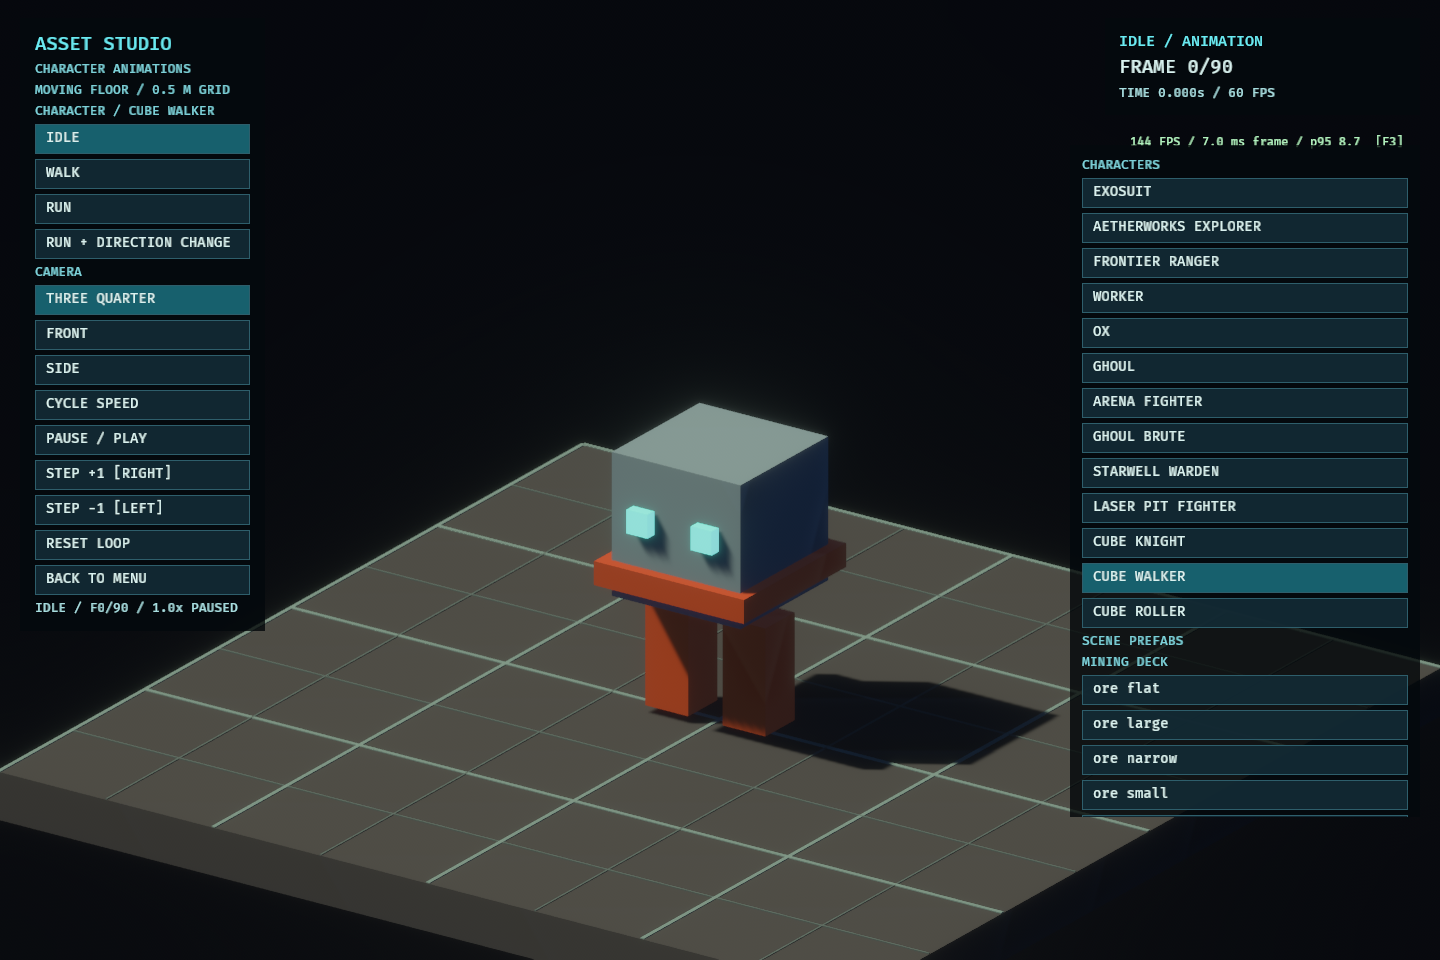
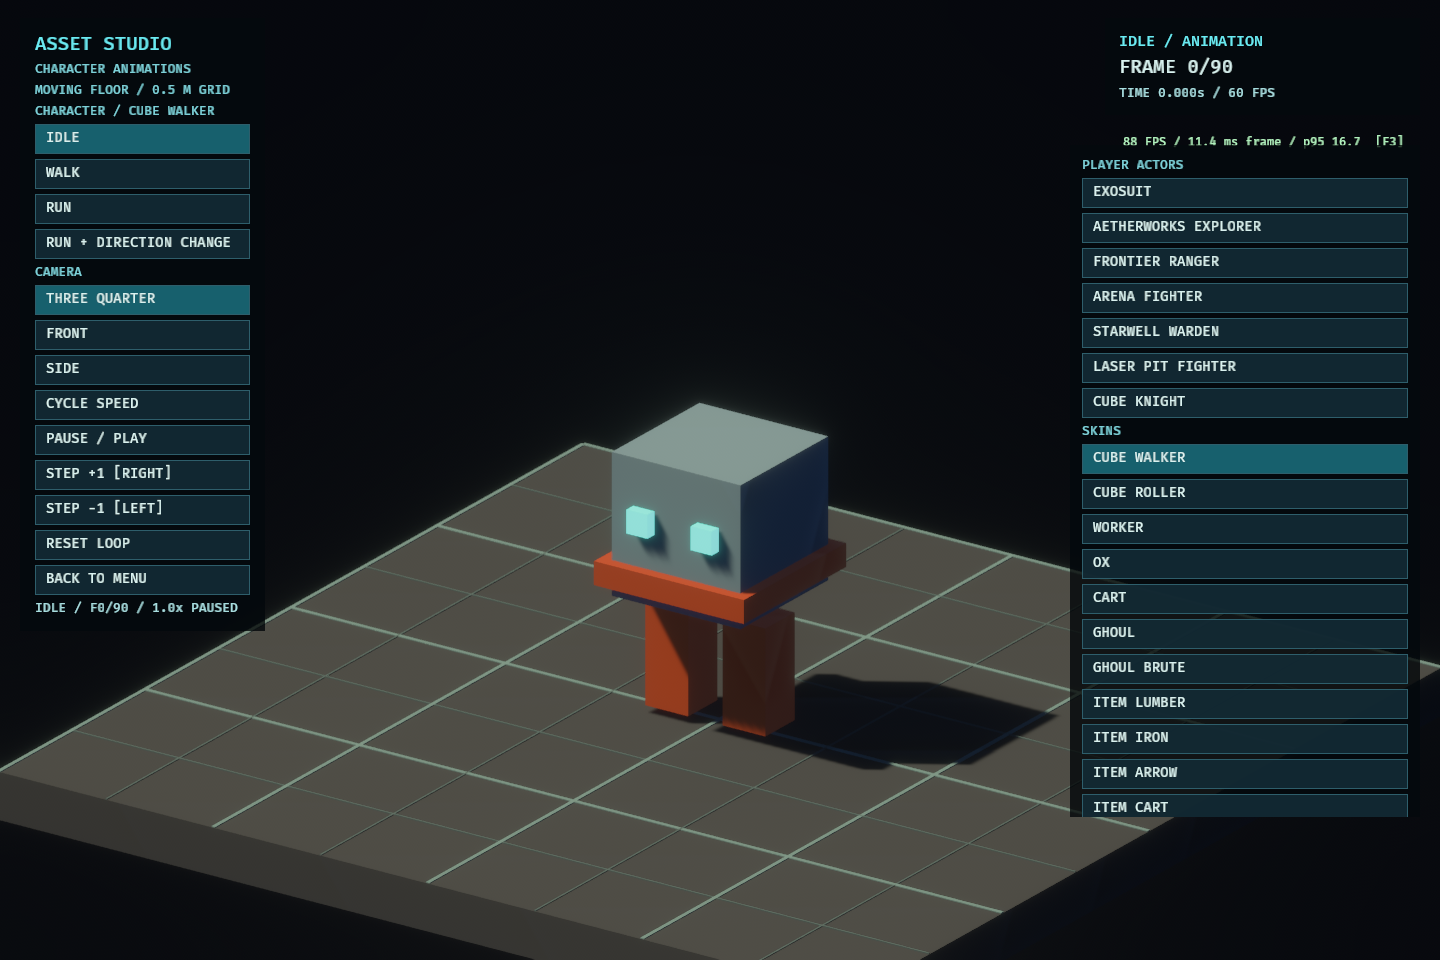
Build Kestrel docs site and extend reusable asset motion

Changed region(s): [[0.75, 0.2812, 1.0, 0.875], [0.75, 0.125, 0.9375, 0.1875]]

diff --git a/kestrel/app/src/character_catalog.rs b/kestrel/app/src/character_catalog.rs
@@ -1,6 +1,6 @@
 //! Discover inspectable characters and their capabilities from baked scene packs.
 use std::{collections::HashSet, ops::Deref};
-use voxel_assets::{ActorPart, Motion, ScenePack};
+use voxel_assets::{ActorPart, ScenePack};
 
 #[derive(Clone, Debug, PartialEq, Eq)]
 pub enum CharacterSource {
@@ -61,8 +61,7 @@ impl CharacterCatalog {
                 });
             }
             for skin in &pack.skins {
-                if skin.parts.is_empty() || !matches!(skin.motion, Motion::Biped | Motion::Quadruped | Motion::CubeRoll { .. })
-                    || !ids.insert(format!("skin:{}", skin.id)) {
+                if skin.parts.is_empty() || !ids.insert(format!("skin:{}", skin.id)) {
                     continue;
                 }
                 entries.push(CharacterEntry {
@@ -70,7 +69,7 @@ impl CharacterCatalog {
                     source: CharacterSource::Skin(skin.id.clone()),
                     id: format!("skin:{}", skin.id),
                     name: skin.id.replace('_', " ").to_uppercase(),
-                    can_locomote: true,
+                    can_locomote: skin.motion.uses_travel(),
                     weapon: None,
                     can_jump: false,
                 });
@@ -80,7 +79,8 @@ impl CharacterCatalog {
     }
 
     pub fn for_scene(&self, scene_index: usize) -> Option<&CharacterEntry> {
-        self.iter().find(|character| character.scene_index == scene_index)
+        self.iter().find(|entry| entry.scene_index == scene_index
+            && (!matches!(entry.source, CharacterSource::Skin(_)) || entry.can_locomote))
     }
 
     pub fn built_in(&self) -> Option<&CharacterEntry> {

diff --git a/kestrel/app/src/viewer/ui.rs b/kestrel/app/src/viewer/ui.rs
@@ -238,8 +238,19 @@ pub fn setup(
         },
         BackgroundColor(Color::srgba(0.015, 0.035, 0.05, 0.94)),
     )).with_children(|panel| {
-        label(panel, "CHARACTERS");
-        for (index, character) in library.characters.iter().enumerate() {
+        label(panel, "PLAYER ACTORS");
+        for (index, character) in library.characters.iter().enumerate()
+            .filter(|(_, character)| !matches!(character.source, CharacterSource::Skin(_))) {
+            button(panel, Action::Character(index), &character.name);
+        }
+        label(panel, "SKINS");
+        let selected_scene = library.characters.get(viewer.character).map(|entry| entry.scene_index);
+        let mut skins: Vec<_> = library.characters.iter().enumerate()
+            .filter(|(_, entry)| matches!(entry.source, CharacterSource::Skin(_)))
+            .collect();
+        // Keep the selected scene's skins visible ahead of the full inventory.
+        skins.sort_by_key(|(_, entry)| (Some(entry.scene_index) != selected_scene, !entry.can_locomote));
+        for (index, character) in skins {
             button(panel, Action::Character(index), &character.name);
         }
         label(panel, "SCENE PREFABS");

diff --git a/kestrel/app/src/viewer.rs b/kestrel/app/src/viewer.rs
@@ -1116,6 +1116,13 @@ mod tests {
     #[test]
     fn studio_discovers_clips_from_each_character_capability() {
         let library = SceneLibrary::new();
+        let static_skin = &library.characters[library.characters.index_for_id("skin:item_lumber").unwrap()];
+        assert!(!static_skin.can_locomote);
+        assert!(Clip::Idle.supports(static_skin));
+        assert!(!Clip::Run.supports(static_skin));
+        let vehicle = &library.characters[library.characters.index_for_id("skin:cart").unwrap()];
+        assert!(vehicle.can_locomote);
+        assert!(Clip::Run.supports(vehicle));
         for character in library.characters.iter() {
             assert!(Clip::Idle.supports(character));
             assert_eq!(Clip::Walk.supports(character), character.can_locomote);

diff --git a/kestrel/tools/assetc/core/src/style.rs b/kestrel/tools/assetc/core/src/style.rs
@@ -1289,6 +1289,15 @@ pub enum Motion {
     #[default]
     Static,
 }
+impl Motion {
+    /// Whether advancing a rig's travel distance changes its pose.
+    pub fn uses_travel(&self) -> bool {
+        match self {
+            Self::Biped | Self::Quadruped | Self::CubeRoll { .. } | Self::Vehicle { .. } => true,
+            Self::Machine { .. } | Self::Turret | Self::Static => false,
+        }
+    }
+}
 #[derive(Clone, Debug, Serialize, Deserialize)]
 #[serde(deny_unknown_fields)]
 pub struct SkinRecipe {

diff --git a/kestrel/docs/character-animation.md b/kestrel/docs/character-animation.md
@@ -24,7 +24,7 @@ The `Jump` scene feature maps Space to a discrete simulation command. `JumpPhase
 
 Sword swings carry a simulation-owned `SwordStroke`. Repeated presses cycle through forehand, backhand, and overhead, then reset to forehand after a pause. One press can be buffered during a swing. The `SwiftSword` scene feature selects the shorter sword cadence in both simulation and rendering, while other scenes retain their authored timing. The stroke drives combat sweep direction and the character's torso, shoulder, elbow, hand, and weapon grip; it is replicated with the swing state so remote actors show the same stroke. A thin blade afterimage emits from the posed weapon transform after hierarchy propagation, keeping it attached through those joint motions.
 
-The launch menu's Asset Studio discovers player actors and animated biped, quadruped, and cube rolling skins from baked scene packs. Each style can name its actor and primary weapon. Player actors keep the complete procedural rig even when a style replaces only some meshes. Animated skins use the shared rig pose path from the settlement view.
+The launch menu's Asset Studio discovers player actors and every baked skin with geometry, including static objects, machines, vehicles, and characters. It offers travel clips when a skin's motion uses travel distance and keeps static skins on the idle preview. Each style can name its actor and primary weapon. Player actors keep the complete procedural rig even when a style replaces only some meshes. Animated skins use the shared rig pose path from the settlement view.
 
 Studio lists characters for direct selection, including NPCs such as the ox and ghouls. It offers sword strokes for sword actors and a weapon action clip for other armed actors, using the same attack pose family as gameplay. The pose clock and camera allow repeatable inspection: clips have fixed 60 Hz numbered frames, three camera angles, speed control, pause, and single-frame stepping.
 

diff --git a/kestrel/docs/asset-system.md b/kestrel/docs/asset-system.md
@@ -88,4 +88,4 @@ An animated skin is not automatically a gameplay character. A cart may use vehic
 
 ## Inspecting the result
 
-The launch menu's **Asset Studio** previews baked characters and their procedural animations, plus scene prefabs such as boulders. Select a prefab to see its geometry and material names. It is an inspection tool today; authoring happens in RON files and Bazel asset targets. `kestrel/build/voxel_assets/README.md` describes the compiler inputs and generated scene packs.
+The launch menu's **Asset Studio** previews player actors, baked skins, and scene prefabs such as boulders. A skin appears whenever it has baked geometry; its motion type determines which movement previews are available. Select a prefab to see its geometry and material names. The Studio is an inspection tool today; authoring happens in RON files and Bazel asset targets. `kestrel/build/voxel_assets/README.md` describes the compiler inputs and generated scene packs.
